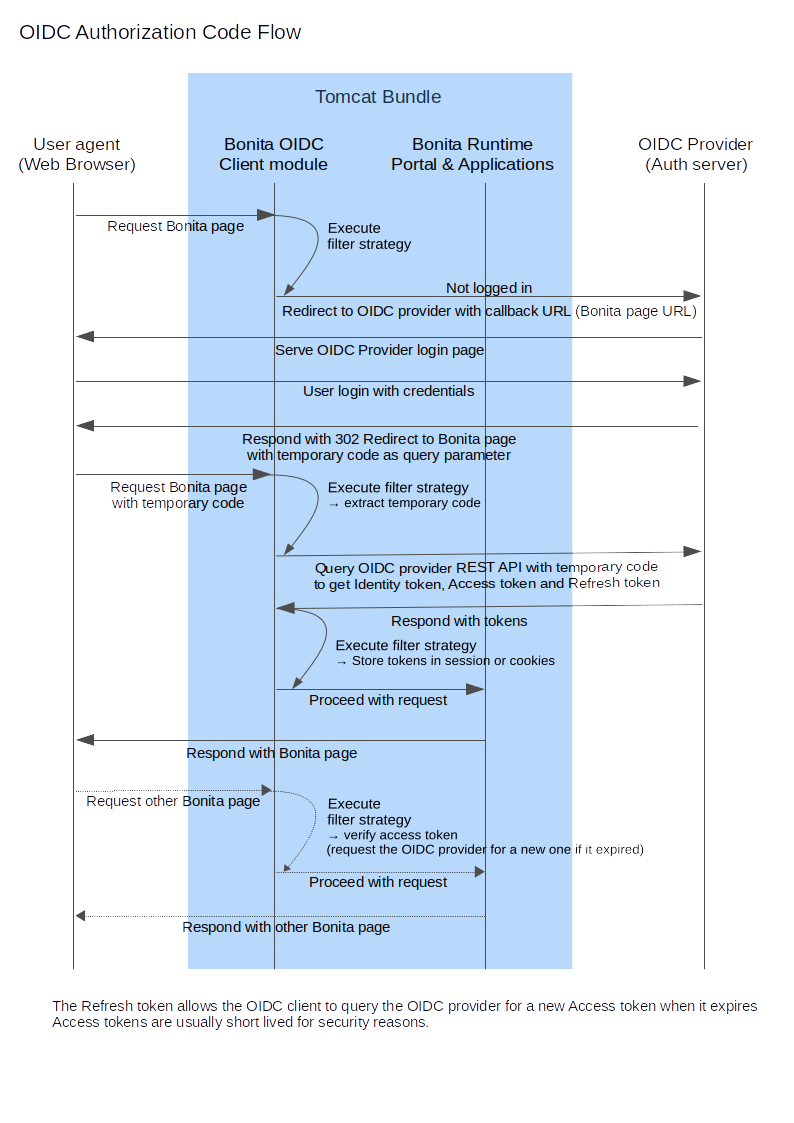
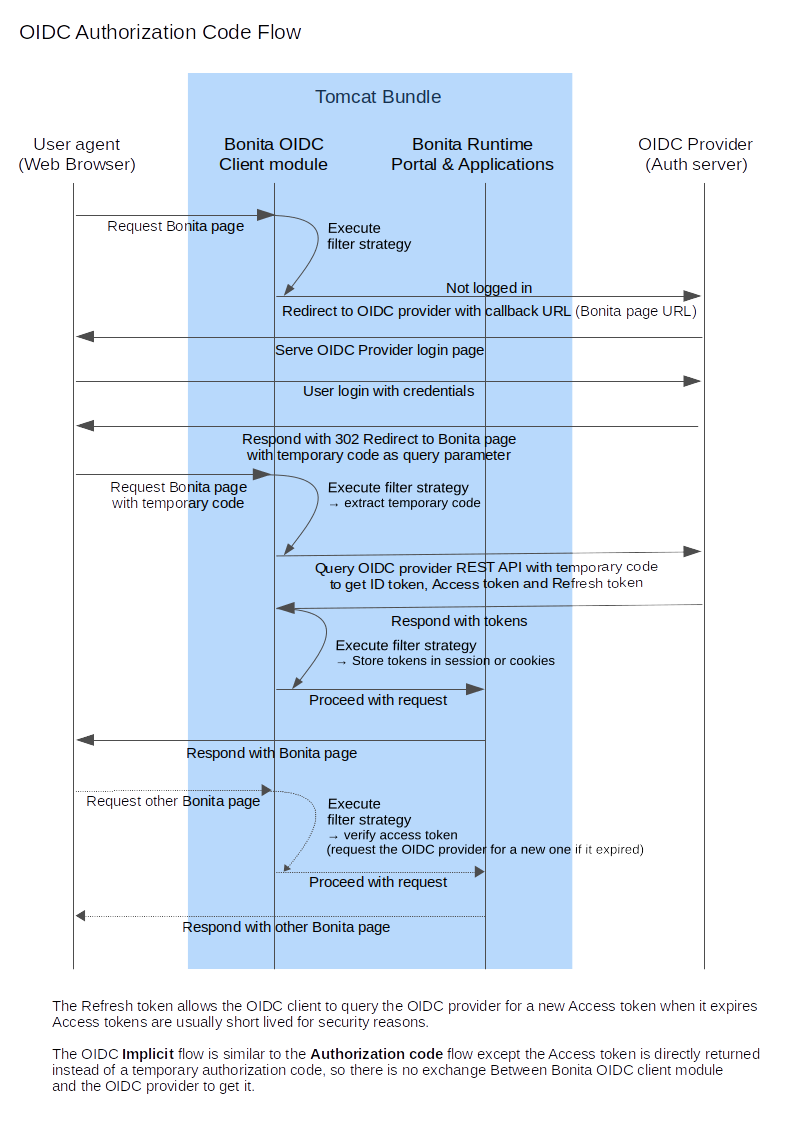
add API usage

Changed region(s): [[0.0605, 0.935, 0.937, 0.9662], [0.3929, 0.4987, 0.8161, 0.5298]]

diff --git a/md/single-sign-on-with-oidc.md b/md/single-sign-on-with-oidc.md
@@ -136,8 +136,8 @@ For example on linux, you can use the command ssh-keygen, then go to “cd ~/.ss
     + The resource property is the OIDC client name given to your bonita installation. You can change it if you want but you need to provide it to your OIDC provider.  
     + The sslPolicy option may need to be changed if Bonita Portal and the IdP are not both accessed via HTTPS. Possible values for this property are: ALL, EXTERNAL, and NONE. For ALL, all requests must come in via HTTPS. For EXTERNAL, only non-private IP addresses must come over via HTTPS. For NONE, no requests are required to come over via HTTPS.  
     + If your **IdP requires the SSO requests to be signed**:
-      + make sure you have signing="true" inside the Key node of the SP
-      TODO
+      + 
+      TODO: explain the most common properties
       
 ::: info
 **Note 2:** _If your IdP neither requires the SSO requests to be signed nor encrypts its own responses, you can remove the Keys node from the SP and set the attributes signaturesRequired, signRequest and signResponse to false._  
@@ -177,7 +177,7 @@ If you need more fine tuning or if you cannot update the reverse proxy configura
 ## Configure the Identity Provider
 
 Your IdP should declare a Service Provider named `bonita` (or the value of the `resource` property set in the file **keycloack-oidc.json** of Bonita bundle if it is different) with the following configuration:
-- TODO
+- TODO: explain at least the mandatory properies
 
 ::: info
 **Note:** If the IdP declares a redirect/target URL, it might override the target URL set by the Service Provider request, and you may always end up on the same page after logging in. In that case, try to remove the redirect URL. Bonita supports redirection to the URL initially requested after logging in on the IdP, provided the IdP doesn't force this URL.
@@ -259,4 +259,13 @@ We recommend that you use LDAP as your master source for information, synchroniz
 **Note :** By default the [LDAP synchronizer](ldap-synchronizer.md) sets the password of the accounts created with the same value as the username. So, even if you allow standard authentication (by setting the property `oidc.auth.standard.allowed` in **authenticationManager-config.properties**), users won't be able to log in with the portal login page directly without going through the OIDC provider authentication.   
 :::
 
-## Single sign-on with OIDC using the REST API
+## Using Bonita REST API with OIDC
+
+When Bonita web application is configured for authentication with OpenID Connect, Bonita REST API is secured through OIDC too and it is possible to call it with an Oauth Access token. 
+To obtain the access token, there are several options depending on your OpenID provider configuration and you use case:
+1. Resource Owner Credentials Grant 
+In this scenario, the client application that needs to use Bonita REST API performs a request to the token end point of the OIDC provider with the username and password of the user account to use in Bonita.
+TODO: example of request
+1. Authorization Code or Implicit Grant
+Those scenario work the same way as when you login on Bonita portal/apps except it is the client application that needs to use Bonita REST API which needs to trigger the authentication process by calling the OIDC provider authorisation endpoint with Bonita OIDC client as `client_id`. The rest of the scenario is similar to what is described in the OIDC Authorization Code Flow schema.  
+Once you obtained the Access token, you can make your REST API request in a normal way, just adding a header `Authoritation` with value `Bearer <Access token>` (replace the placeholder <Access token> with the token returned by the OIDC provider and make sure to keep the whitespace after `Bearer`).
